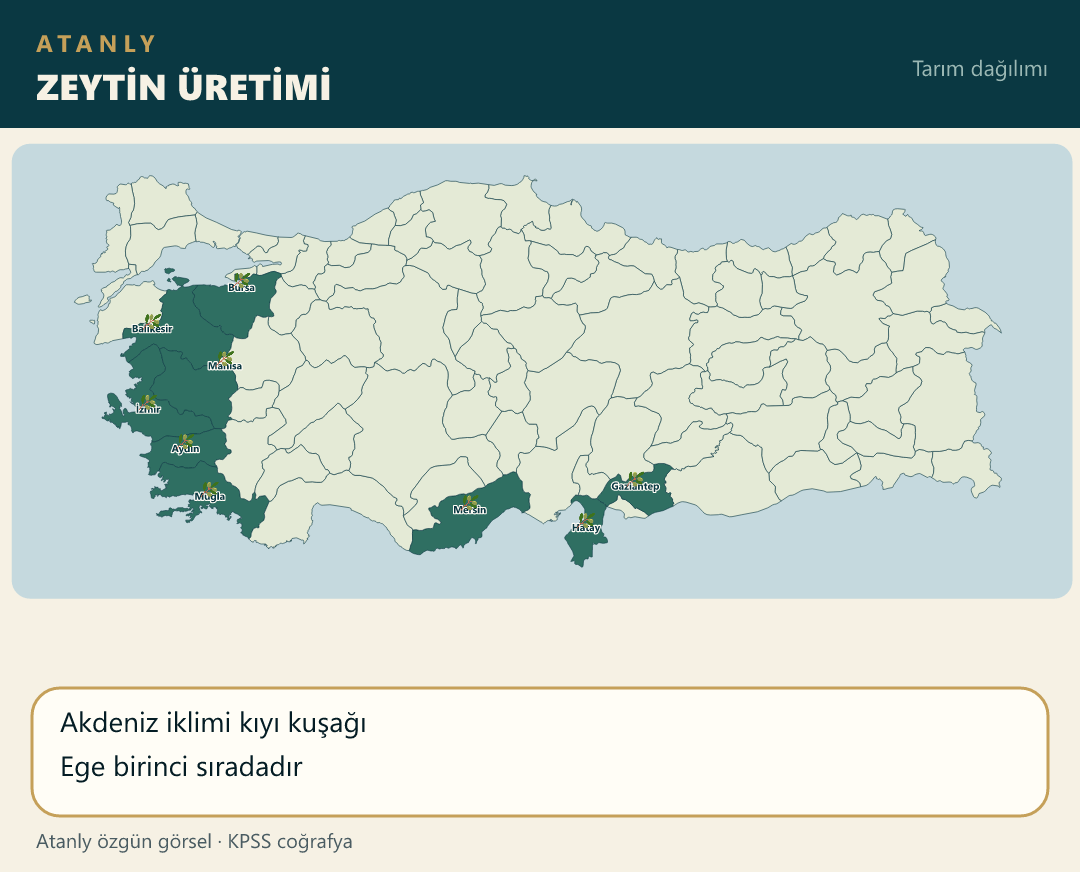
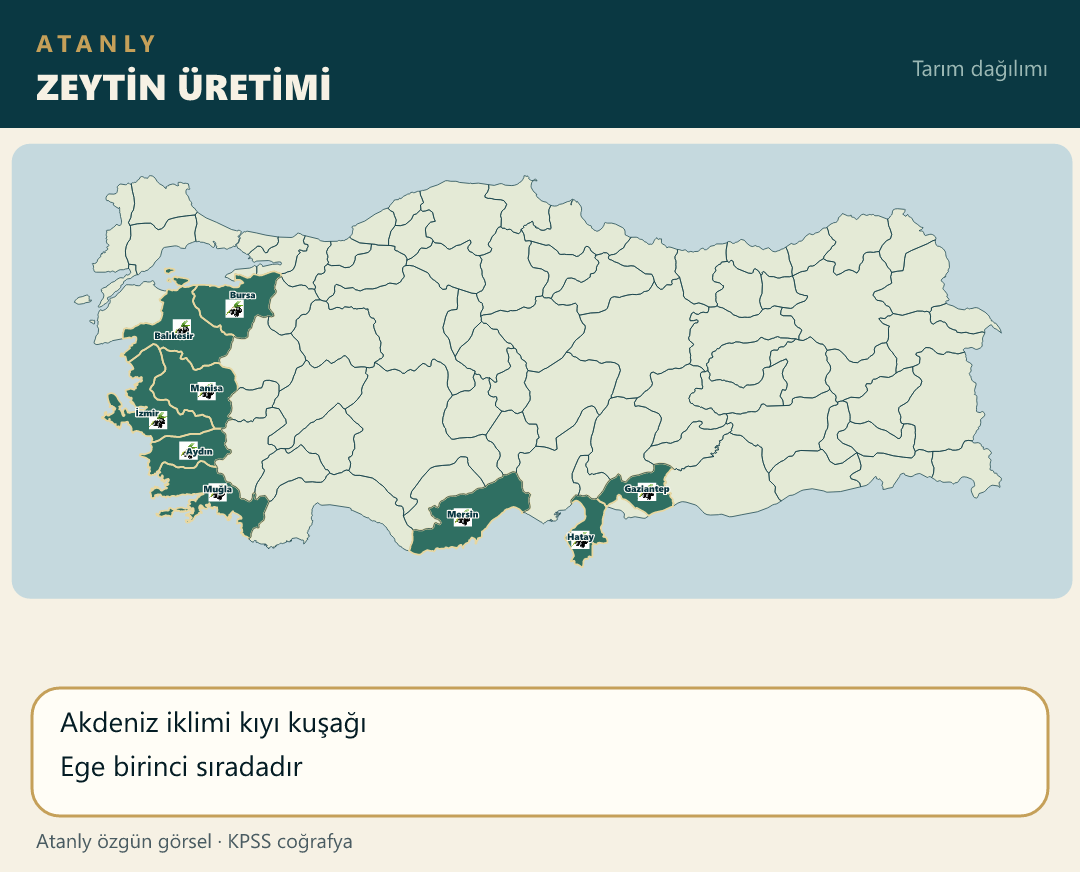
Place the olive photo on the production provinces' land-center pins.

diff --git a/scripts/build-atanly-maps.js b/scripts/build-atanly-maps.js
@@ -623,7 +623,19 @@ function main() {
                 { il: "Mardin", ldx: 32, ldy: 8 }
             ],
             facts: ["Sıcaklık ve sulama ister", "Çukurova ve Güneydoğu öne çıkar"] },
-        { file: "zeytin.png", title: "ZEYTİN ÜRETİMİ", iller: ["Aydın", "İzmir", "Balıkesir", "Manisa", "Muğla", "Bursa", "Hatay", "Mersin", "Gaziantep"], facts: ["Akdeniz iklimi kıyı kuşağı", "Ege birinci sıradadır"] },
+        { file: "zeytin.png", title: "ZEYTİN ÜRETİMİ", urun: "Zeytin",
+            noktalar: [
+                { il: "Aydın", ldx: 8, ldy: 30 },
+                { il: "İzmir", ldx: -40, ldy: 8 },
+                { il: "Balıkesir", ldx: -40, ldy: -8 },
+                { il: "Manisa", ldx: 36, ldy: 8 },
+                { il: "Muğla", ldx: 8, ldy: 28 },
+                { il: "Bursa", ldx: 36, ldy: 8 },
+                { il: "Hatay", ldx: 32, ldy: 8 },
+                { il: "Mersin", ldx: -34, ldy: 8 },
+                { il: "Gaziantep", ldx: 8, ldy: 30 }
+            ],
+            facts: ["Akdeniz iklimi kıyı kuşağı", "Ege birinci sıradadır"] },
         { file: "üzüm.png", title: "ÜZÜM ÜRETİMİ", urun: "Üzüm",
             noktalar: [
                 { il: "Manisa", ldx: 32, ldy: 8 },

diff --git a/notlar/cografya-19-not.js b/notlar/cografya-19-not.js
@@ -2,7 +2,7 @@
 (function () {
     function harita(src, alt) {
         return '<div class="mt-4 overflow-hidden rounded-xl border border-blue-200 dark:border-blue-700/50 bg-white dark:bg-slate-800 p-2">' +
-            '<img src="./src/img/' + src + '?v=40" alt="' + alt + ' Haritası" class="w-full h-auto rounded-lg object-contain" loading="lazy">' +
+            '<img src="./src/img/' + src + '?v=41" alt="' + alt + ' Haritası" class="w-full h-auto rounded-lg object-contain" loading="lazy">' +
             "</div>";
     }
 

diff --git a/index.html b/index.html
@@ -117,7 +117,7 @@
     <script src="notlar/cografya-16-not.js?v=3"></script>
     <script src="notlar/cografya-17-not.js?v=3"></script>
     <script src="notlar/cografya-18-not.js?v=18"></script>
-    <script src="notlar/cografya-19-not.js?v=36"></script>
+    <script src="notlar/cografya-19-not.js?v=37"></script>
     <script src="notlar/cografya-20-not.js?v=1"></script>
     <script src="notlar/cografya-21-not.js?v=32"></script>
     <script src="notlar/cografya-22-not.js?v=1"></script>
